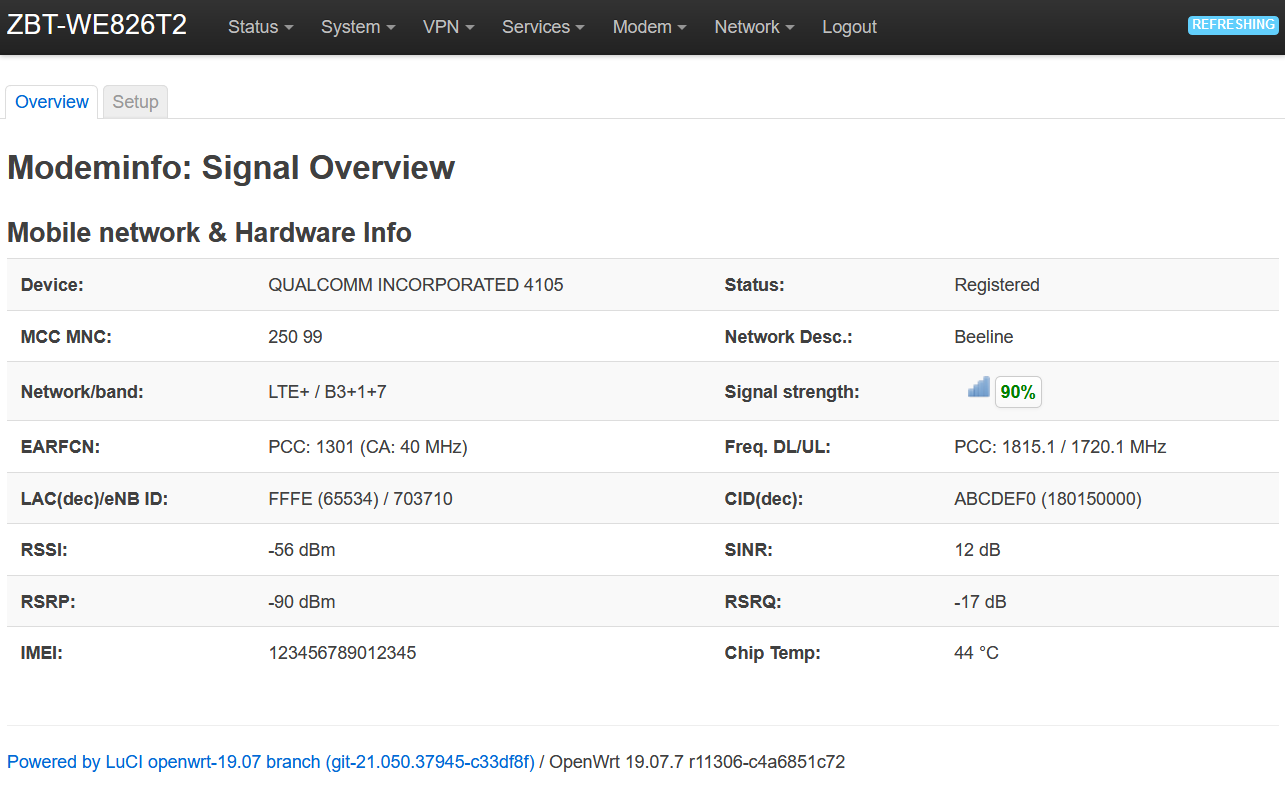
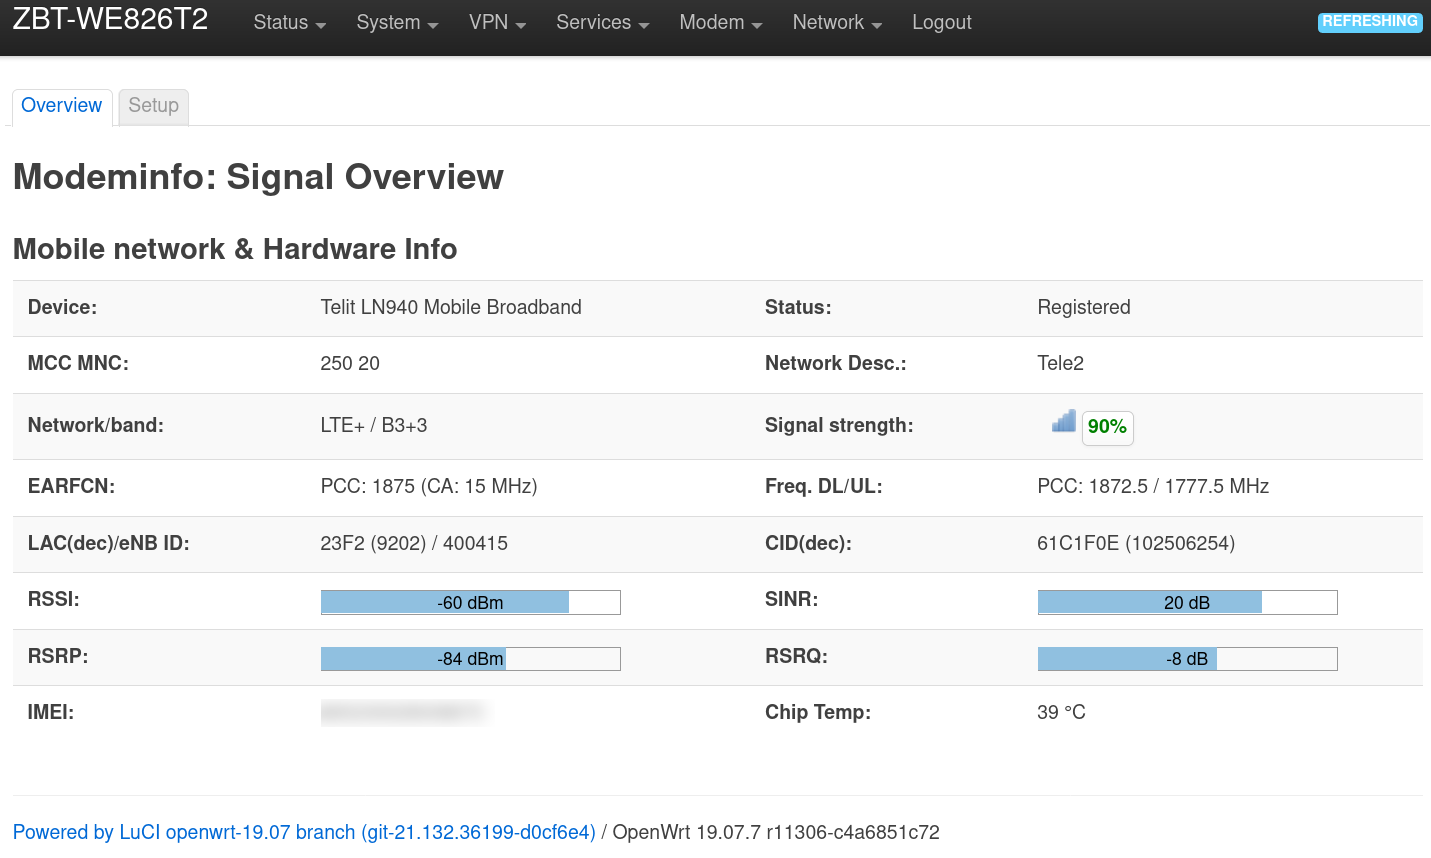
luci-app-modeminfo: small fixes
* modeminfo.htm: fix minimal value rsrp
	* update screenshot.png

diff --git a/luasrc/view/modem/modeminfo.htm b/luasrc/view/modem/modeminfo.htm
@@ -316,7 +316,7 @@ XHR.poll(4, '<%=build_url("admin/modem/data")%>', null,
 						e.innerHTML = rsrq_bar(data.sinr + " dB", sinr_min);
 					}
 				}
-			var rsrp_min = -120;
+			var rsrp_min = -140;
 			if (e = document.getElementById('rsrp'))
 				if (data.rsrp == "--") {
 					e.innerHTML = String.format(data.rsrp + " dBm");
